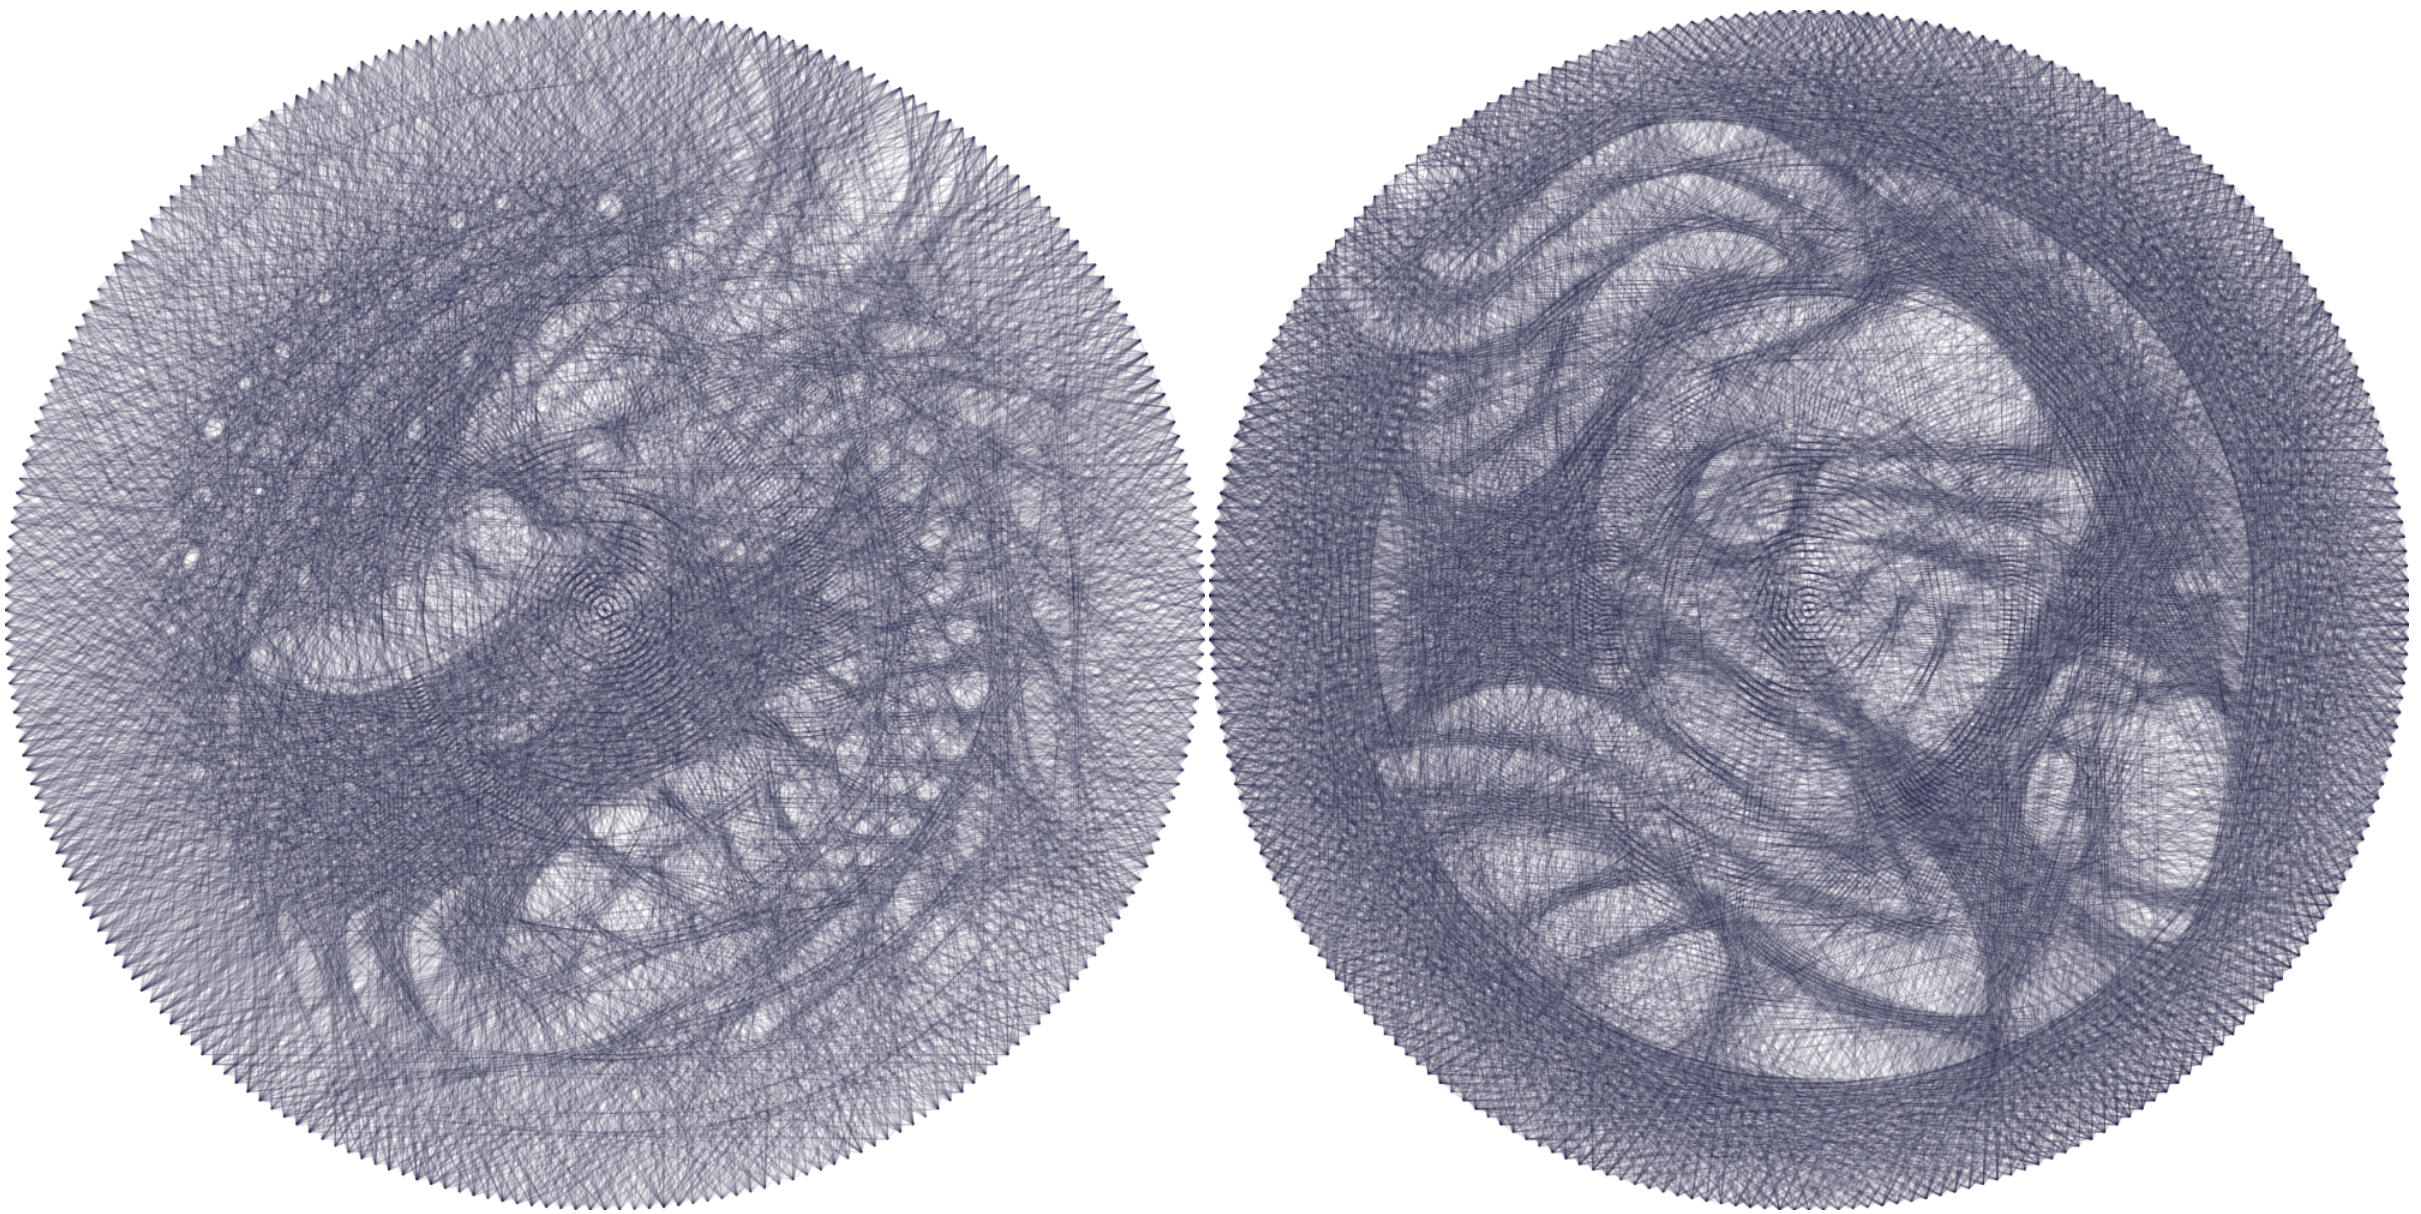
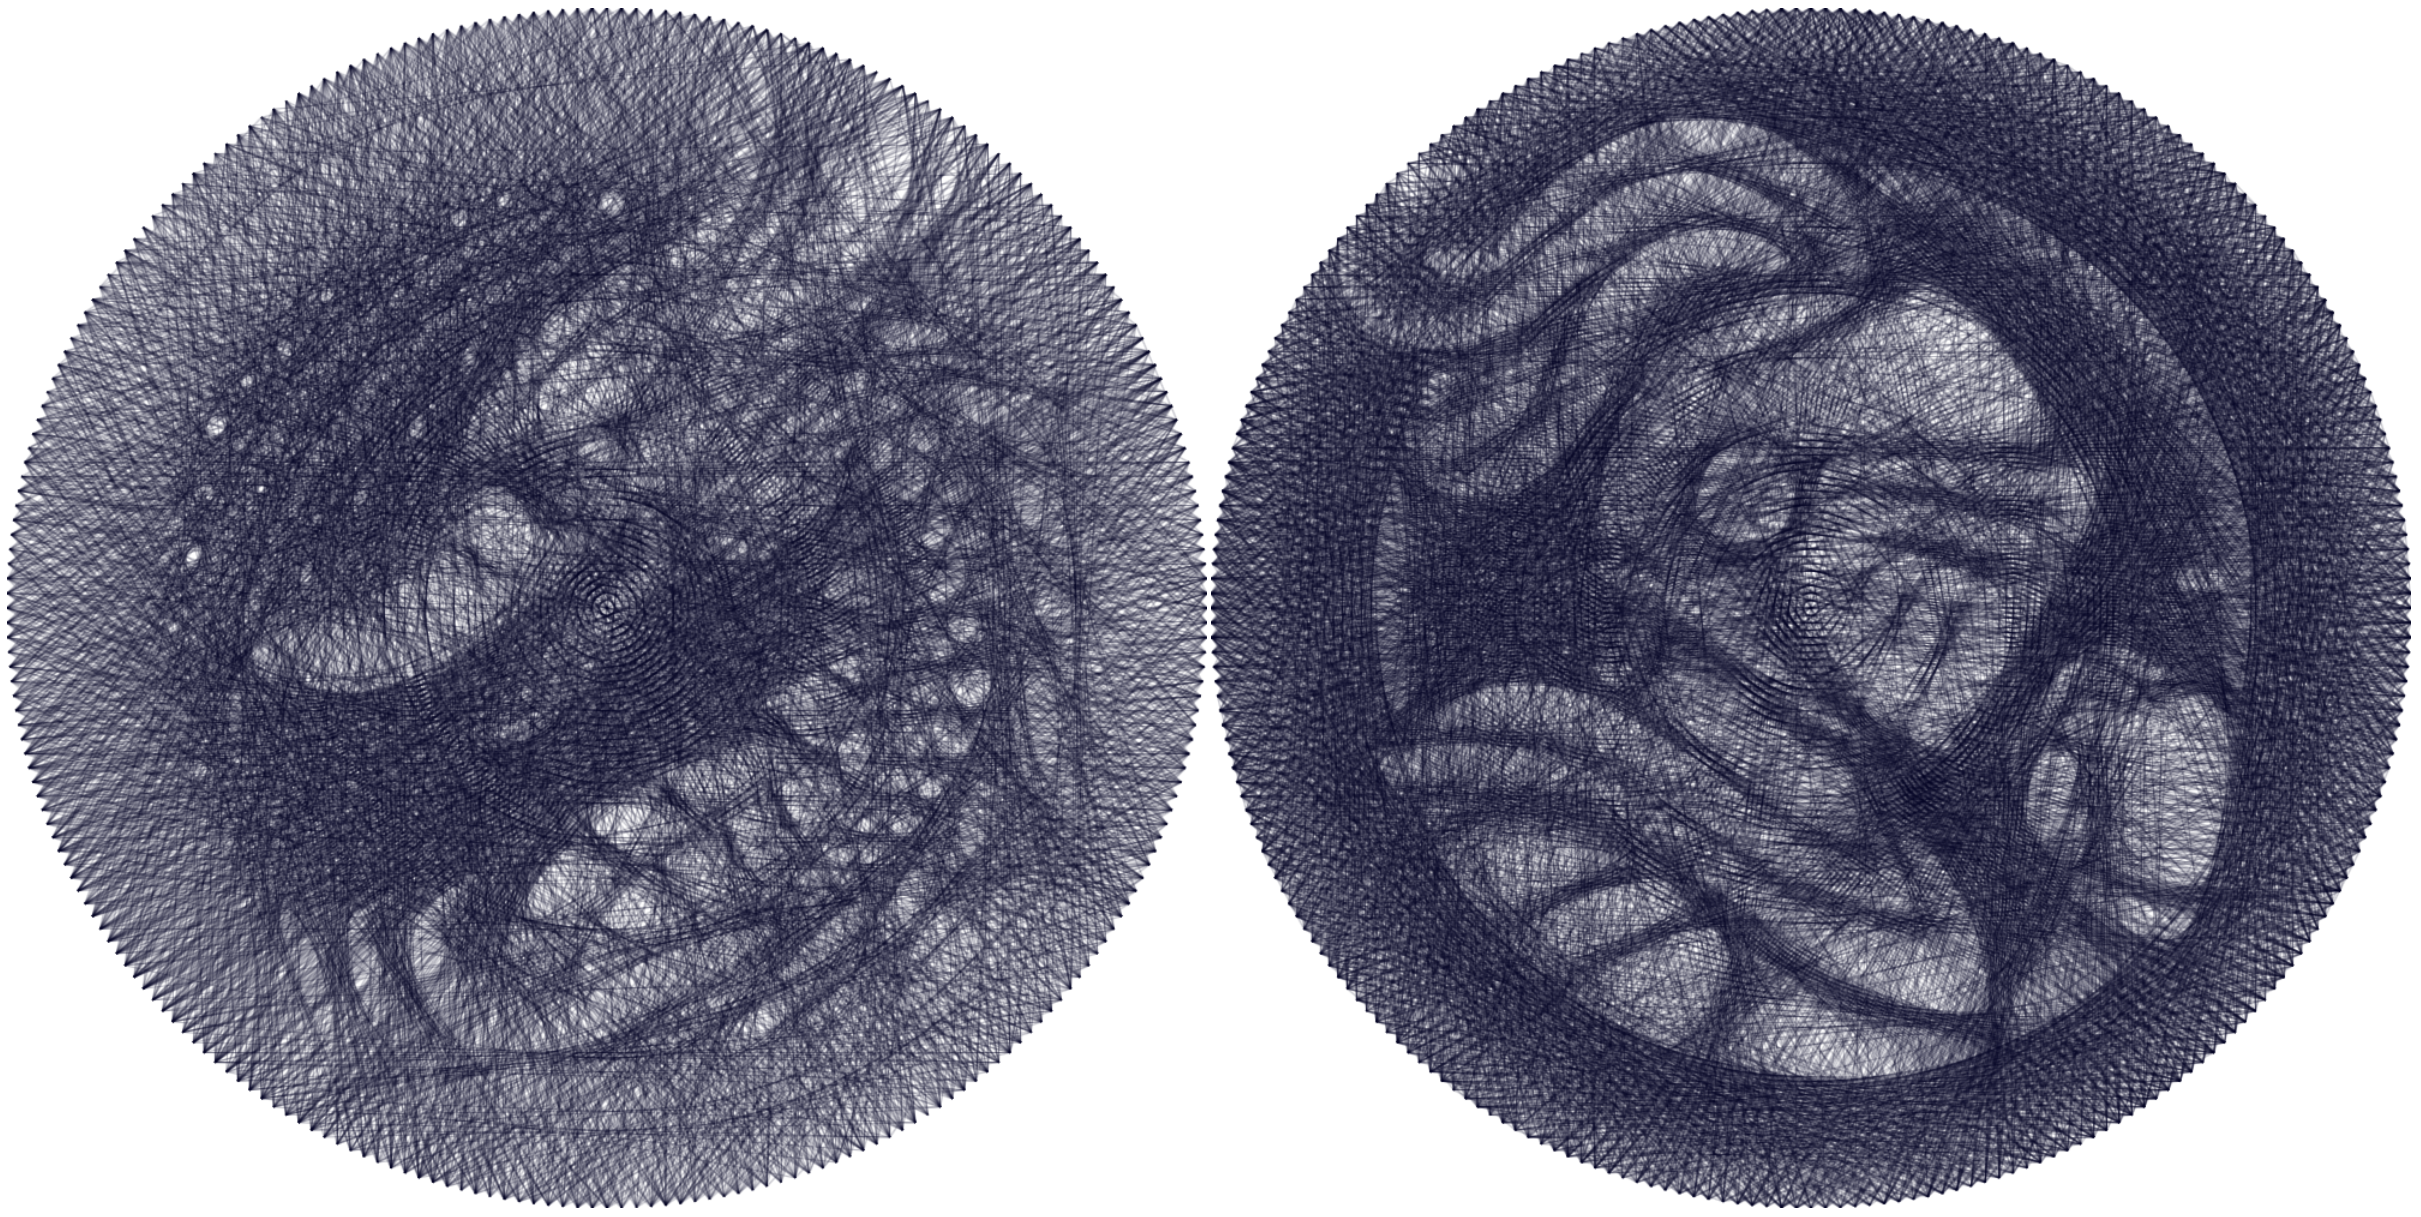
added screenshot of day8

diff --git a/2025/quest08/script.js b/2025/quest08/script.js
@@ -34,7 +34,7 @@ const visualize = (arr, parts = 256, id = 'canvas') => {
     let canvas = document.getElementById(id), ctx = canvas.getContext('2d');
     ctx.clearRect(0, 0, 1000, 1000);
     ctx.lineWidth = 1;
-    ctx.strokeStyle = 'rgba(32, 32, 64, 0.2)';
+    ctx.strokeStyle = 'rgba(0, 0, 32, 0.3)';
 
     const coords = pin => {
         pin = pin-1;

diff --git a/2025/quest10/input.js b/2025/quest10/input.js
@@ -174,6 +174,12 @@ let input3t4 = `.SS.S
 .####
 ##D.#`
 
+let input3t5 = `SSS.S
+.....
+#.#.#
+.#.#.
+#.D.#`
+
 let input3 = `SS.SS.S
 .......
 .....##
